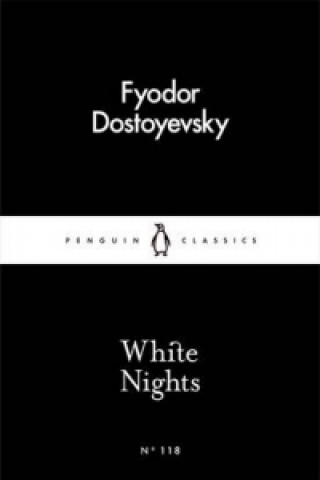
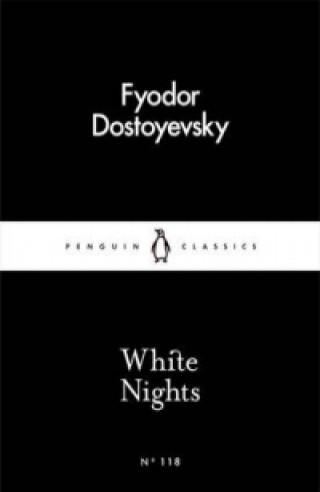
Categ 2 images fixed + Recommended books framework started

Changed region(s): [[0.0, 0.5312, 1.0, 0.5625], [0.0, 0.4375, 1.0, 0.4688]]

diff --git a/Preparation_2/index.html b/Preparation_2/index.html
@@ -85,6 +85,54 @@
         </div>
     </div>
 
+    <hr>
+    <h1>Recommended for you:</h1>
+
+    <section class="category">
+        <div class="conteiner">
+            <div class="bookpage">
+                <img class="snimka" src="photos-categ1/kniga1.jpg" >
+            </div>
+            <div class="text">
+                <h3 id="zaglavie">360 градуса преди края</h3>
+                <p id="avtor">Автор: Силва Дончева</p>
+            </div>        
+        </div>
+
+        <div class="conteiner">
+            <div class="bookpage">
+                <img class="snimka" src="photos-categ2/kniga2-2.jpg">
+            </div>
+            <div class="text">
+                <h3 id="zaglavie">White Nights</h3>
+                <p id="avtor">Автор: Fyodor Dostoyevsky</p>
+            </div>        
+        </div>
+
+        <div class="conteiner">
+            <div class="bookpage">
+                <img class="snimka" src="photos-categ2/kniga3-3.jpg" width="20%" height="10%">
+            </div>
+            <div class="text">
+                <h3 id="zaglavie">Berserk Deluxe</h3>
+                <p id="avtor">Автор: Kentaro Miura</p>
+            </div>       
+        </div>
+
+        <div class="conteiner">
+            <div class="bookpage">
+                <img class="snimka" src="photos-categ2/kniga4-4.jpg">
+            </div>
+            <div class="text">
+                <h3 id="zaglavie">Normal People</h3>
+                <p id="avtor">Автор: Sally Ronney</p>
+            </div>      
+        </div>
+
+    </section>
+
+
+
    
     <footer>
         <h1 id="name" title="ReadHub">ReadHub</h1>

diff --git a/Preparation_2/index.css b/Preparation_2/index.css
@@ -207,6 +207,25 @@ header {
     background-color: rgba(69, 69, 69, 0.786);
 }
 
+.category {
+    display: flex;
+    justify-content: center;
+    background-color: white;
+    padding: 2%;
+    margin-top: 3%;
+    flex-wrap: wrap;
+}
+
+.conteiner{
+    display: flex;
+    flex-direction: column;
+    align-items: center;
+    width: 15%;
+    background-color: #e2e2e2;
+    padding: 3%;
+    margin: 1%;
+}
+
 footer {
     display: flex;
     flex-direction: row;
